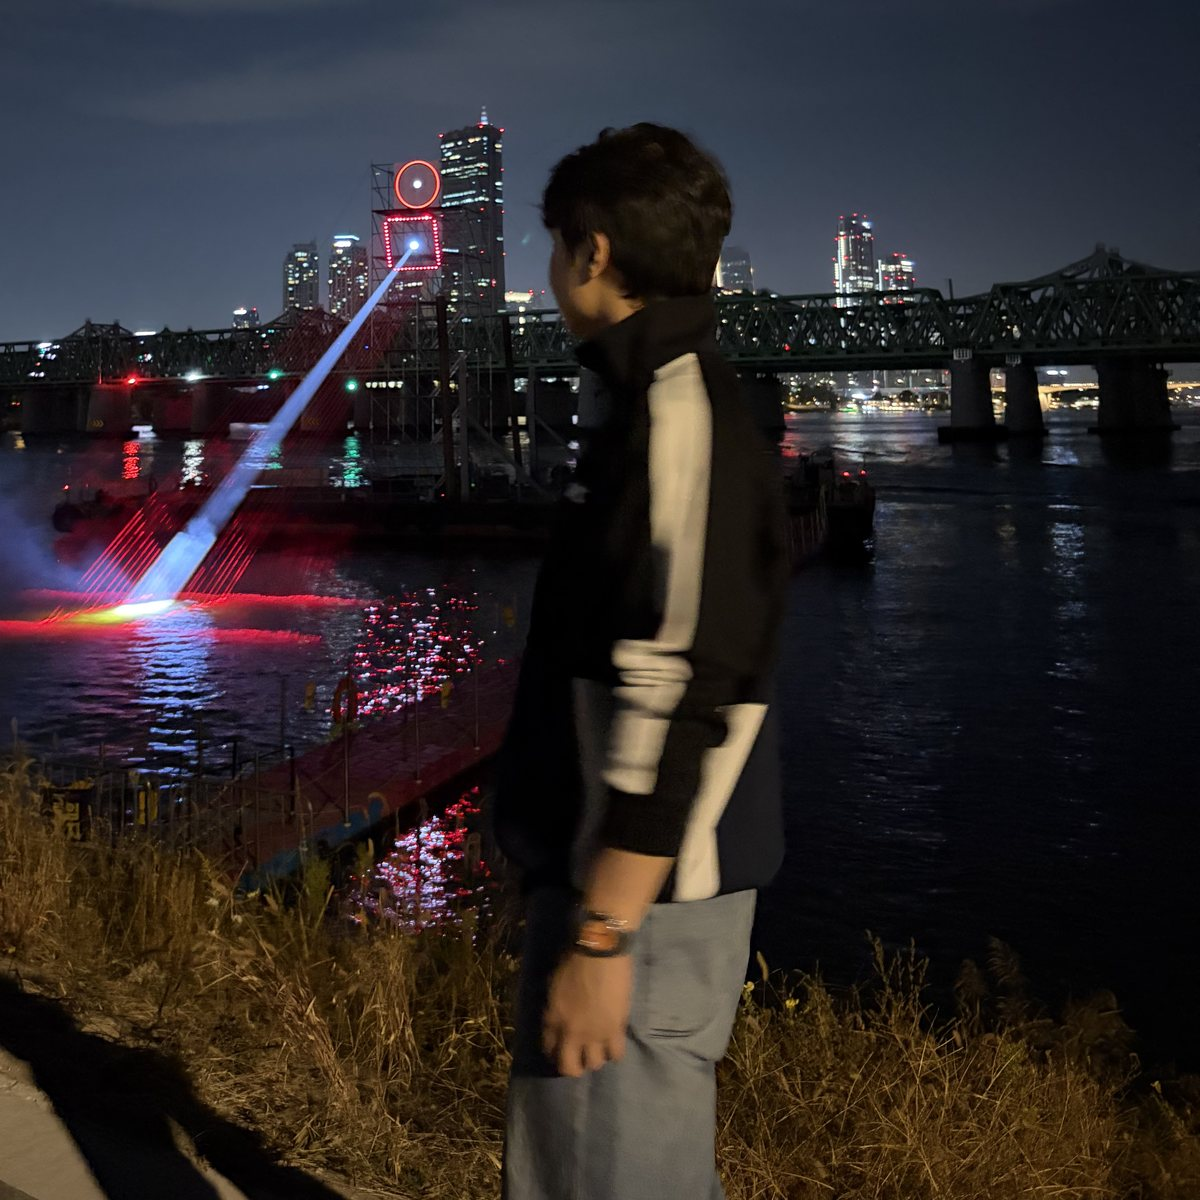
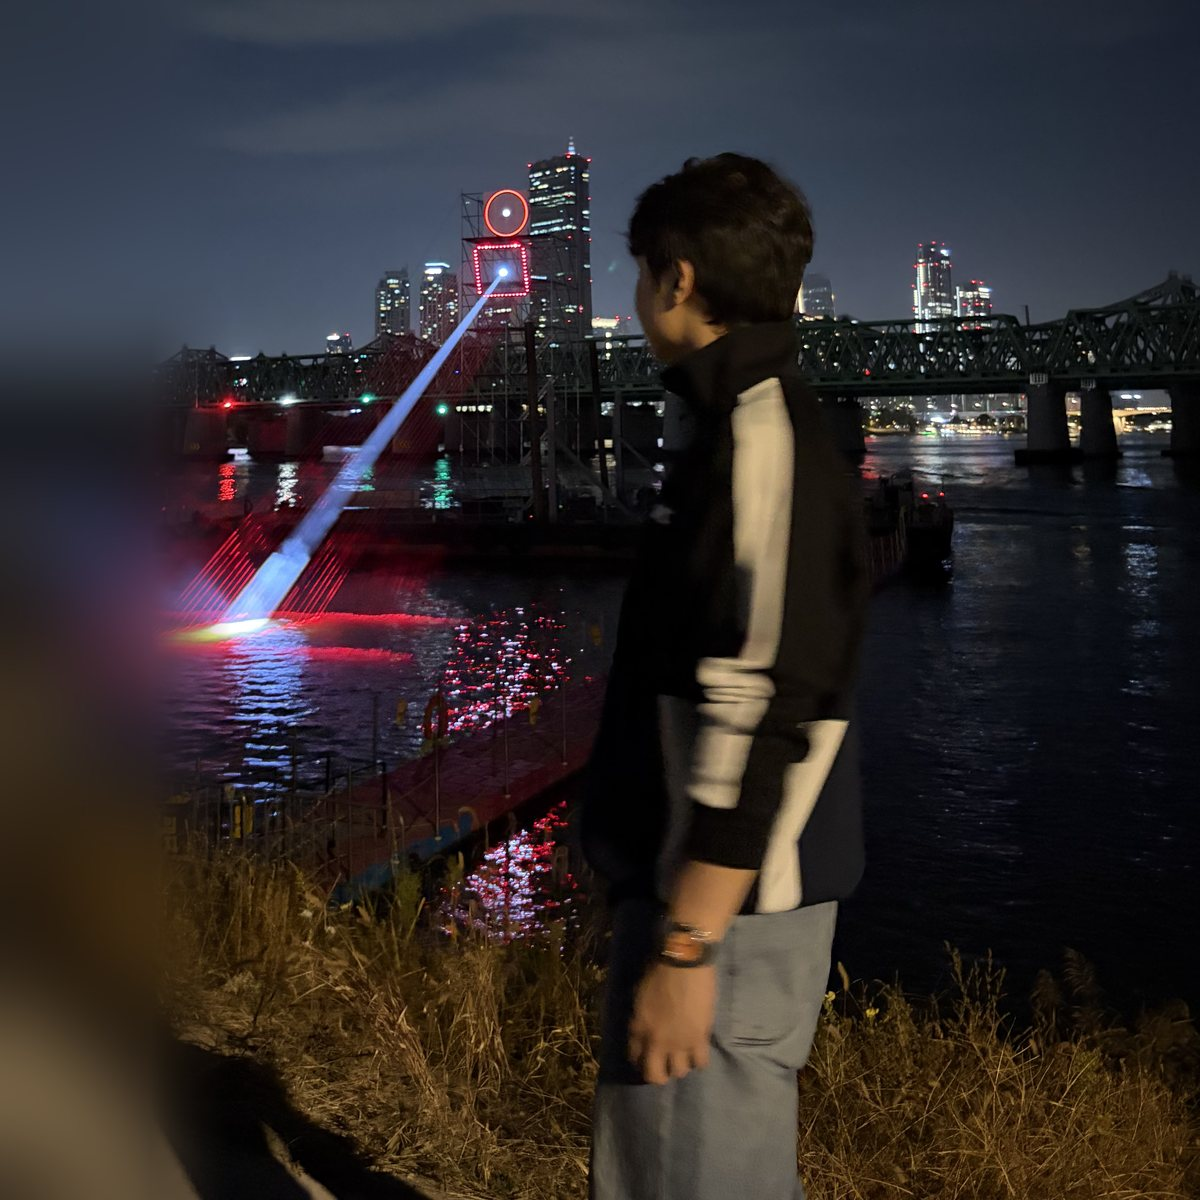
Reframe hero and Contact photos
Shift the podium and hover photos left so the face clears the fade,
and widen the river photo so more of the laser shows. The masked left
strip of the river photo is blurred in the file as well.

Claude-Session: https://claude.ai/code/session_0153qPUwCEcxT5LiwU48NBQT

diff --git a/assets/css/site.css b/assets/css/site.css
@@ -113,7 +113,7 @@ hr { border: 0; border-top: 1px solid var(--rule); margin: 3rem 0; }
 .hero figure { margin: calc(0.74rem + 14px) 0 0; grid-column: 1 / 9; grid-row: 1; align-self: stretch; position: relative; }
 /* the presentation screen (right of the photo) fades out under the text */
 .hero figure img {
-  position: absolute; inset: 0; width: 100%; height: 100%; object-fit: cover; object-position: 0% 50%; border-radius: 14px 0 0 14px;
+  position: absolute; inset: 0; width: 100%; height: 100%; object-fit: cover; object-position: 24% 50%; border-radius: 14px 0 0 14px;
   -webkit-mask-image: linear-gradient(to right, #000 32%, transparent 67%);
           mask-image: linear-gradient(to right, #000 32%, transparent 67%);
 }
@@ -128,7 +128,7 @@ hr { border: 0; border-top: 1px solid var(--rule); margin: 3rem 0; }
   .hero { grid-template-columns: 1fr; padding-top: 0; }
   .hero figure { grid-column: 1; grid-row: 1; margin: 0 -16px; aspect-ratio: 4 / 3; }
   .hero figure img {
-    border-radius: 0;
+    border-radius: 0; object-position: 0% 50%;
     -webkit-mask-image: linear-gradient(to right, #000 34%, transparent 80%), linear-gradient(to bottom, #000 60%, transparent 100%);
             mask-image: linear-gradient(to right, #000 34%, transparent 80%), linear-gradient(to bottom, #000 60%, transparent 100%);
     -webkit-mask-composite: source-in; mask-composite: intersect;
